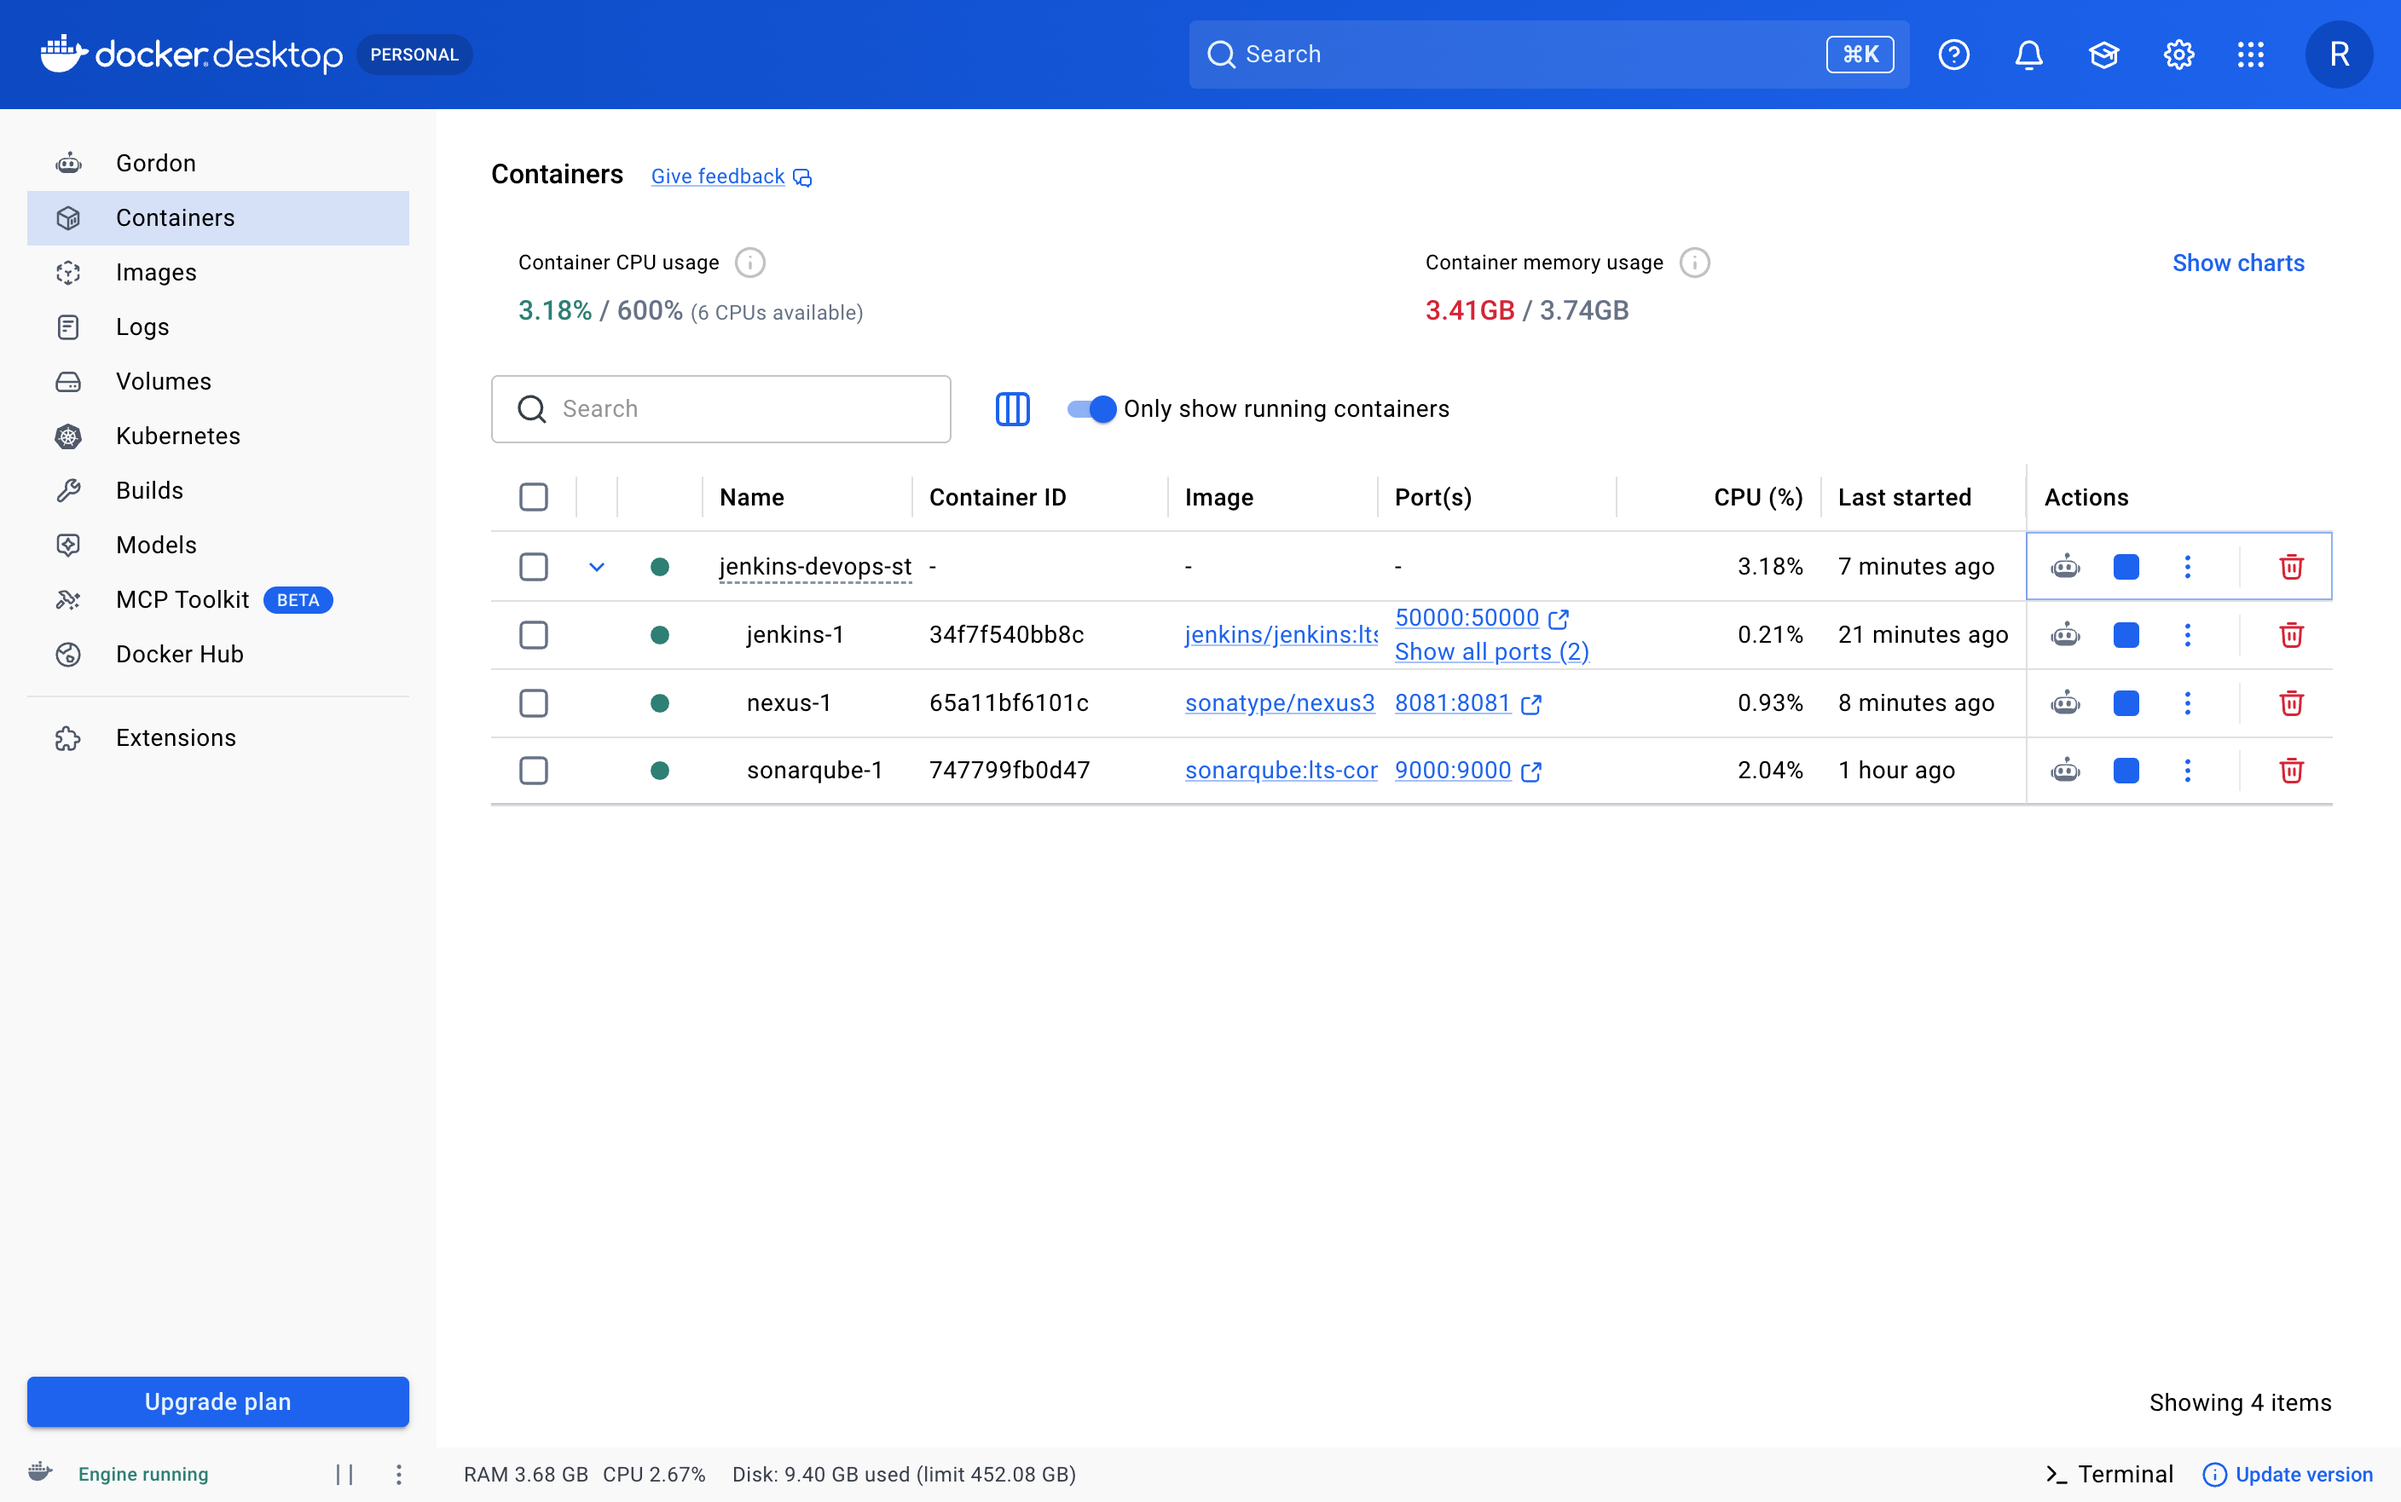
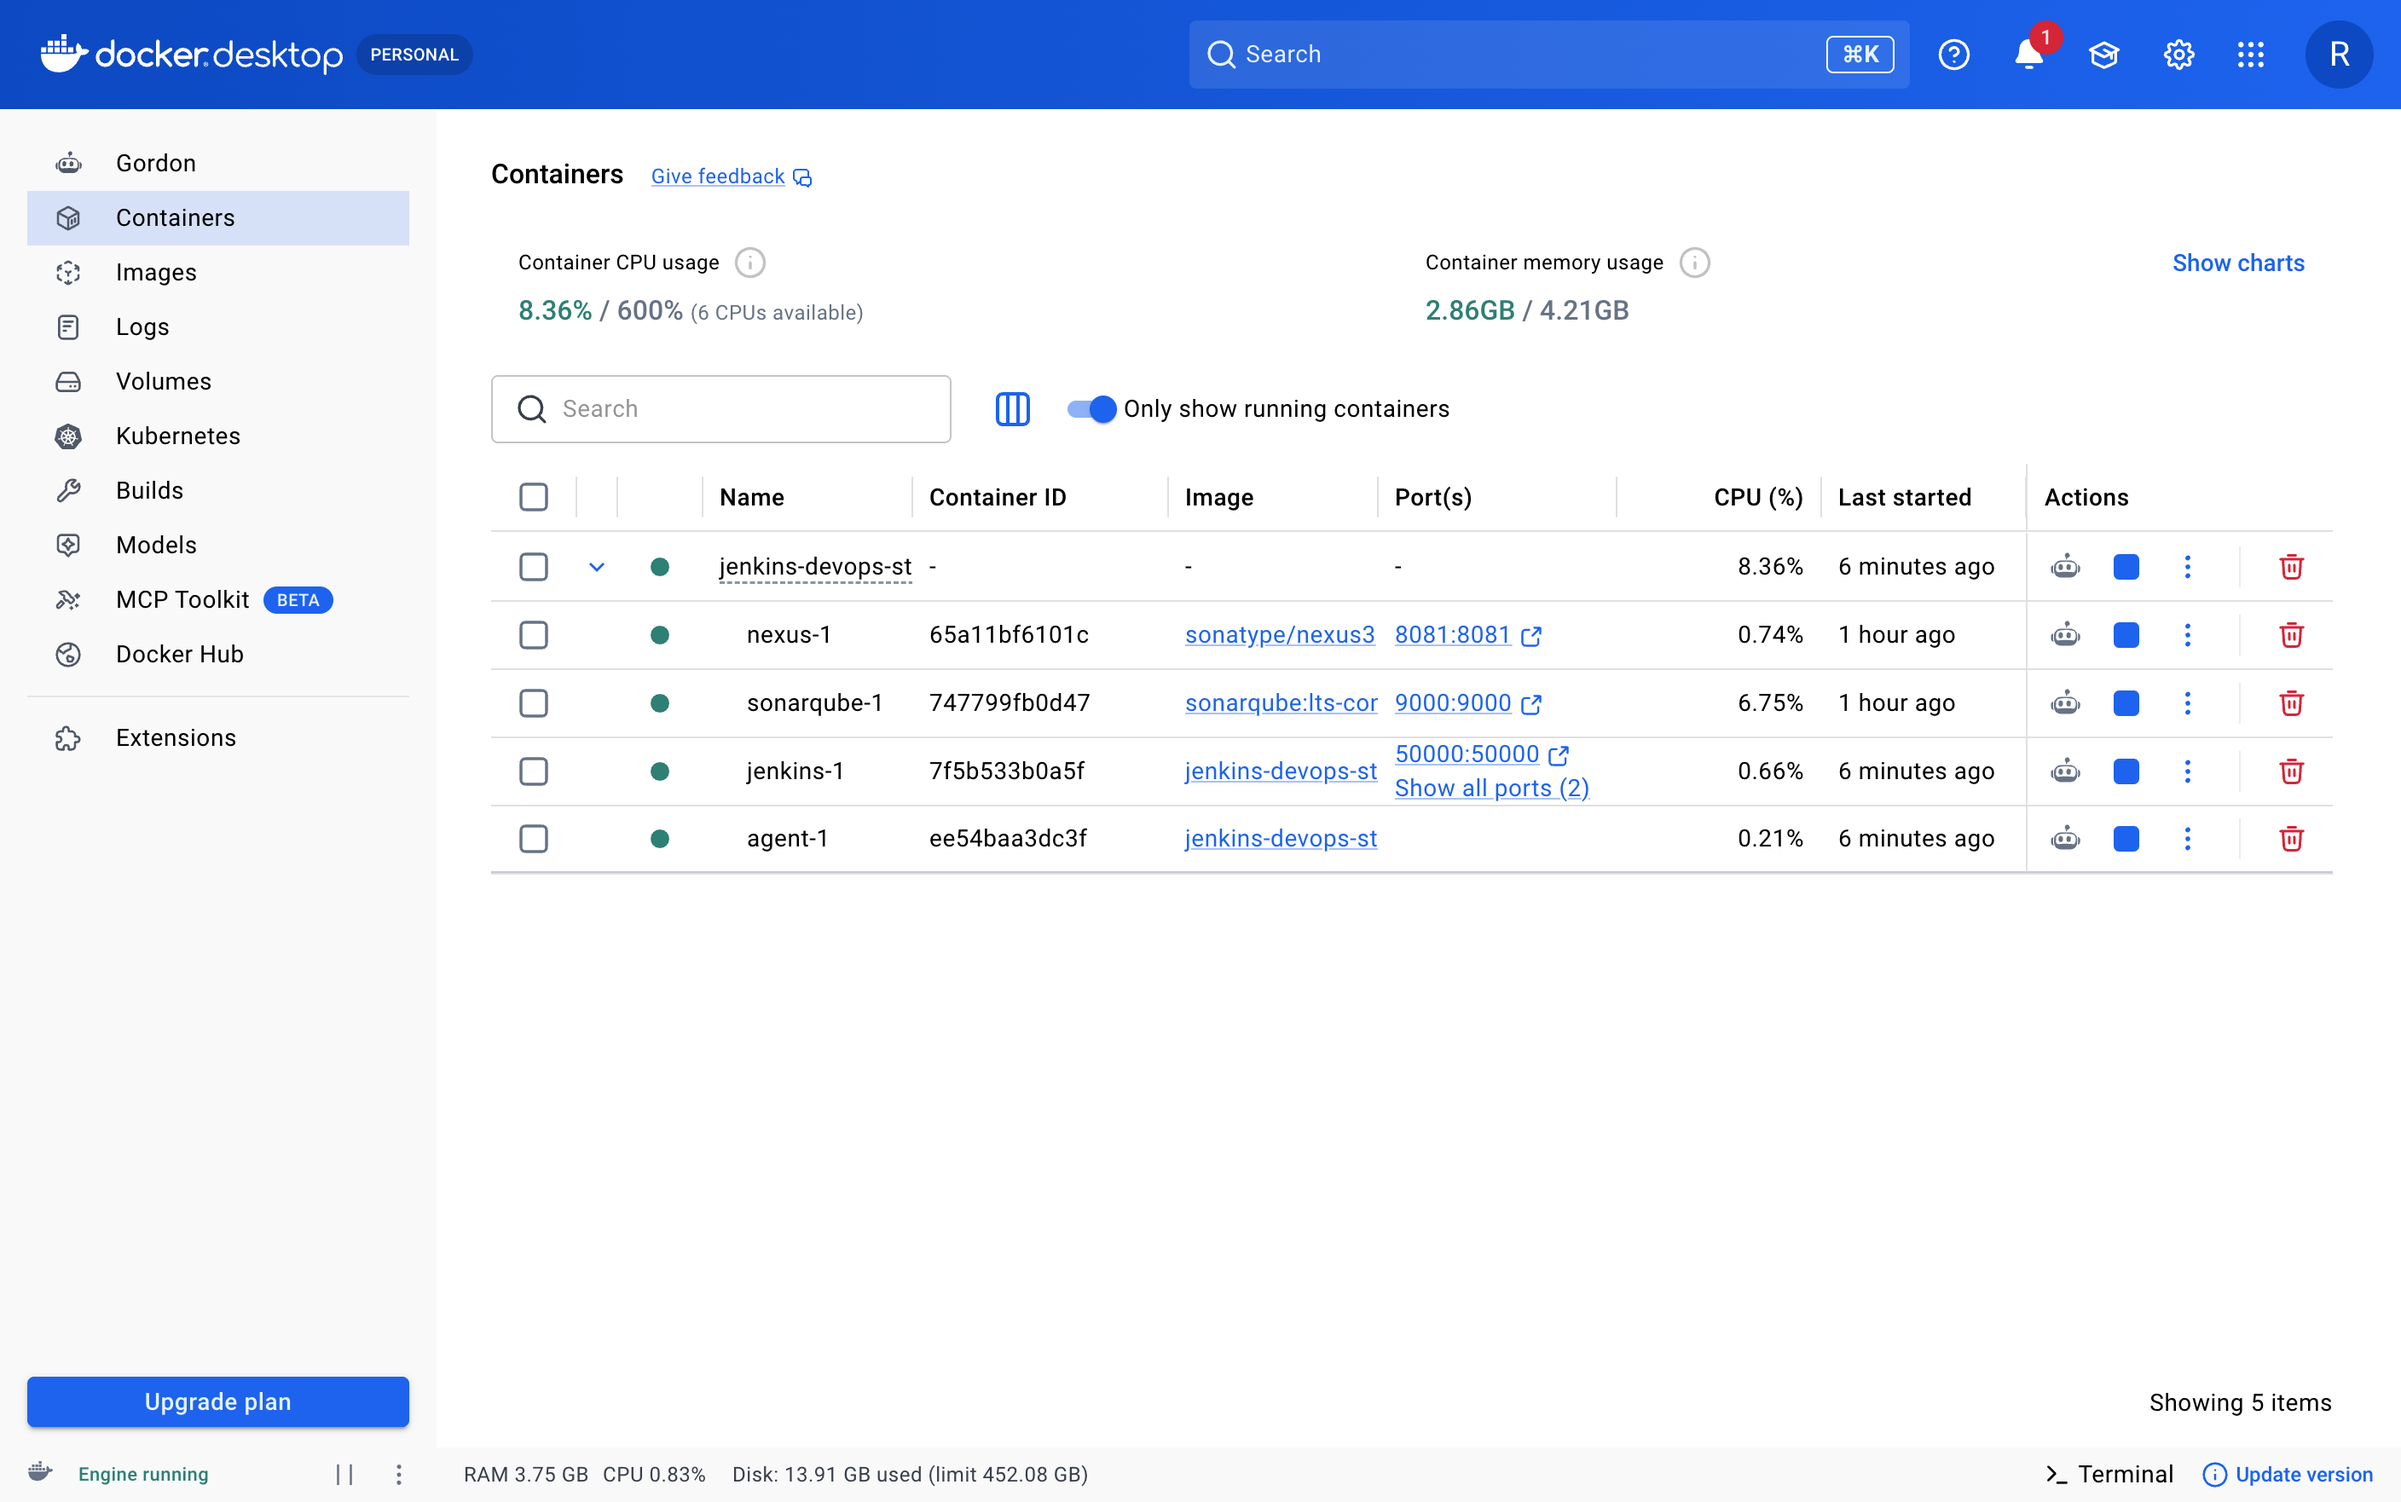
update readme

diff --git a/README.MD b/README.MD
@@ -48,17 +48,17 @@ Open http://localhost:8080, unlock Jenkins with that password, install the sugge
 
 Defined as code in a `Jenkinsfile` in the application repository. Node.js is provided through a configured Jenkins **NodeJS tool** (`node20`) so builds are reproducible.
 
-| Stage                  | What it does                                                                                   |
-| ---------------------- | ---------------------------------------------------------------------------------------------- |
-| **Install**            | `npm ci` — clean dependency install                                                            |
-| **Test**               | Vitest suite (10 tests)                                                                        |
-| **Build**              | Production build (`tsc -b && vite build`)                                                      |
-| **SonarQube analysis** | Full static code-quality scan                                                                  |
-| **Quality Gate**       | `waitForQualityGate abortPipeline: true` — **fails the build** if quality drops below the gate |
-| **Dependency audit**   | `npm audit` — flags known-vulnerable dependencies                                              |
-| **Secret scan**        | gitleaks — scans the workspace for committed secrets                                           |
-| **Vulnerability scan** | Trivy — scans dependencies for HIGH/CRITICAL CVEs                                              |
-| **Package**            | Archives `dist/` into a versioned `.tar.gz`, tagged with the Jenkins build number               |
+| Stage                  | What it does                                                                                                        |
+| ---------------------- | ------------------------------------------------------------------------------------------------------------------- |
+| **Install**            | `npm ci` — clean dependency install                                                                                 |
+| **Test**               | Vitest suite (10 tests)                                                                                             |
+| **Build**              | Production build (`tsc -b && vite build`)                                                                           |
+| **SonarQube analysis** | Full static code-quality scan                                                                                       |
+| **Quality Gate**       | `waitForQualityGate abortPipeline: true` — **fails the build** if quality drops below the gate                      |
+| **Dependency audit**   | `npm audit` — flags known-vulnerable dependencies                                                                   |
+| **Secret scan**        | gitleaks — scans the workspace for committed secrets                                                                |
+| **Vulnerability scan** | Trivy — scans dependencies for HIGH/CRITICAL CVEs                                                                   |
+| **Package**            | Archives `dist/` into a versioned `.tar.gz`, tagged with the Jenkins build number                                   |
 | **Publish to Nexus**   | Uploads the versioned artifact to a scoped Nexus repo via `curl`, authenticated with a dedicated Jenkins credential |
 
 ```groovy
@@ -129,7 +129,7 @@ pipeline {
 
 <!-- Save each screenshot into docs/images/ using the filenames below. -->
 
-**1. The full stack running (Jenkins, SonarQube, Nexus via Docker Compose)**
+**1. The full stack running (Jenkins, SonarQube, Nexus, Agent via Docker Compose)**
 
 ![Docker Compose bringing up the stack](docs/images/01-compose-up.png)
 
